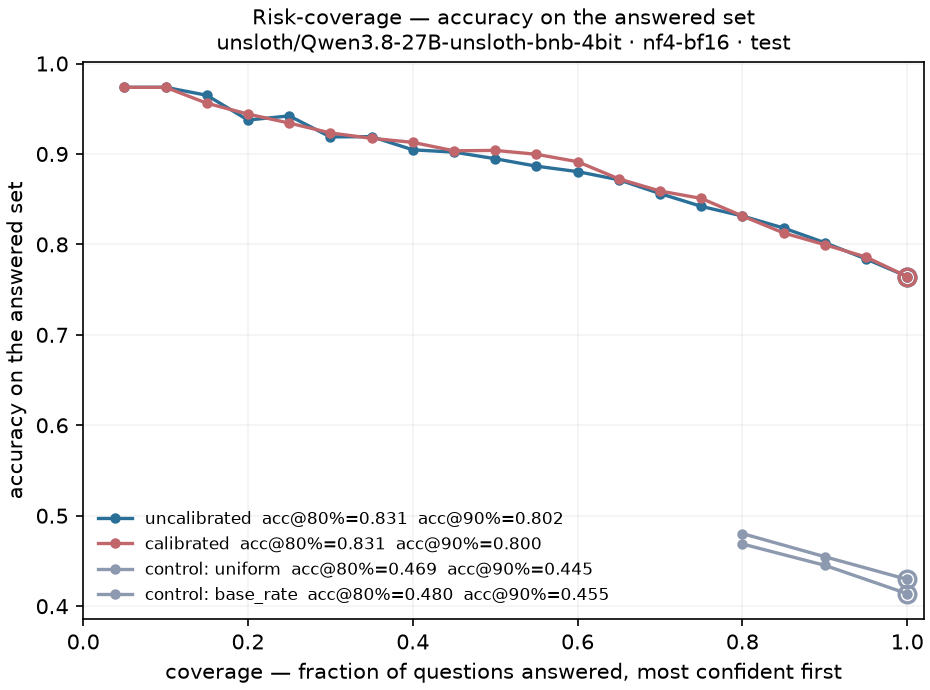
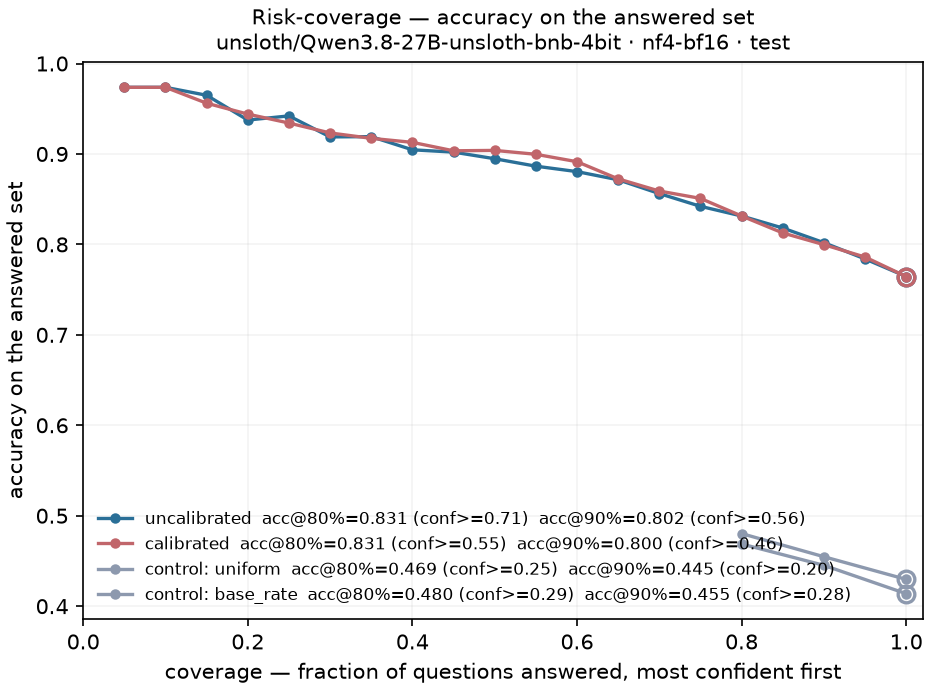
eval: report the confidence threshold beside each coverage, and show one BSS in the summary
acc@80% is what an operator gets; thr@80% is what they set to get it. The curve already carried
the per-point confidence, so the selective block now surfaces it at 80% and 90% and the summary
tables carry both columns. It is not a cosmetic pairing: calibration leaves acc@80% at 0.8314
but moves the cut that produces it from 0.7052 to 0.5497, which is the number that would go
into a deployment.

The skill table shows only the multiclass BSS, so the report never prints two different figures
both called BSS. The top-label variant stays in metrics.json under skill.*.brier_top_label,
with a line saying where it went and why it reads lower.

diff --git a/eval/summary.py b/eval/summary.py
@@ -26,8 +26,14 @@ _COLUMNS = (
     ("mean_confidence", "conf", "{:.3f}"),
 )
 
-#: Selective-accuracy columns, pulled out of the nested `selective_accuracy` mapping.
-_SELECTIVE_COLUMNS = (("0.8", "acc@80%"), ("0.9", "acc@90%"))
+#: Selective columns, pulled out of the nested risk-coverage mappings. Accuracy is what a
+#: coverage buys; the threshold is the confidence cut an operator sets to buy it.
+_SELECTIVE_COLUMNS = (
+    ("selective_accuracy", "0.8", "acc@80%"),
+    ("selective_threshold", "0.8", "thr@80%"),
+    ("selective_accuracy", "0.9", "acc@90%"),
+    ("selective_threshold", "0.9", "thr@90%"),
+)
 
 
 def _stale_format_banner(run_format: str | None) -> list[str]:
@@ -61,15 +67,14 @@ def _row(label: str, summary: Mapping[str, Any]) -> str:
     for key, _title, fmt in _COLUMNS:
         value = summary.get(key)
         cells.append("n/a" if value is None else fmt.format(value))
-    selective = summary.get("selective_accuracy") or {}
-    for key, _title in _SELECTIVE_COLUMNS:
-        value = selective.get(key)
+    for source, key, _title in _SELECTIVE_COLUMNS:
+        value = (summary.get(source) or {}).get(key)
         cells.append("n/a" if value is None else f"{value:.4f}")
     return f"| {label} | " + " | ".join(cells) + " |"
 
 
 def _table(rows: Sequence[tuple[str, Mapping[str, Any]]], first: str = "") -> list[str]:
-    titles = [t for _k, t, _f in _COLUMNS] + [t for _k, t in _SELECTIVE_COLUMNS]
+    titles = [t for _k, t, _f in _COLUMNS] + [t for _s, _k, t in _SELECTIVE_COLUMNS]
     head = f"| {first} | " + " | ".join(titles) + " |"
     rule = "|---" * (len(titles) + 1) + "|"
     return [head, rule, *[_row(label, s) for label, s in rows]]
@@ -94,19 +99,27 @@ def _skill_section(report: Mapping[str, Any]) -> list[str]:
         "that way, so stating the result as skill *against that control* puts the comparison in "
         "the open.",
         "",
-        "| model | control | BSS (multiclass) | BSS (top label) | accuracy gain |",
-        "|---|---|---|---|---|",
+        "| model | control | BSS | accuracy gain |",
+        "|---|---|---|---|",
     ]
+
+    def fmt(value: float | None) -> str:
+        return "n/a" if value is None else f"{value:+.4f}"
+
     for label, block in pairs:
         for control, skill in block.items():
-
-            def fmt(value: float | None) -> str:
-                return "n/a" if value is None else f"{value:+.4f}"
-
             out.append(
                 f"| {label} | {control} | {fmt(skill.get('brier_multiclass'))} | "
-                f"{fmt(skill.get('brier_top_label'))} | {fmt(skill.get('accuracy_gain'))} |"
+                f"{fmt(skill.get('accuracy_gain'))} |"
             )
+    out += [
+        "",
+        "**BSS here is the multiclass Brier skill**, over the full distribution — one number, "
+        "so the report never shows two things both called BSS. The top-label variant is in "
+        "`metrics.json` under `skill.*.brier_top_label` for anyone who wants the confidence-only "
+        "view; it is systematically smaller because the top-label score ignores how the "
+        "remaining mass is spread.",
+    ]
     return out
 
 
@@ -127,13 +140,17 @@ def _risk_coverage_section(report: Mapping[str, Any]) -> list[str]:
         "`1 - c` are abstained on. This is the deployment question — *if the least confident "
         "20% go to a human, how good is what is left?* — and it depends only on the **order** "
         "of the confidences, not on their values, which makes it a second opinion rather than a "
-        "restatement of the reliability diagram. Calibration still moves it, because our "
+        "restatement of the reliability diagram. `thr@80%` is the confidence cut that "
+        "produces 80% coverage — the number an operator configures, where `acc@80%` is what "
+        "they get for it. Calibration still moves it, because our "
         "temperatures are fitted per option-count bucket and therefore re-rank questions across "
         "buckets; a single global temperature would leave these rows identical. "
         "`AURC` is the area under the risk curve; lower is better.",
         "",
-        "| model | " + " | ".join(f"acc@{c:.0%}" for c in (0.2, 0.4, 0.6, 0.8, 1.0)) + " | AURC |",
-        "|---|---|---|---|---|---|---|",
+        "| model | "
+        + " | ".join(f"acc@{c:.0%}" for c in (0.2, 0.4, 0.6, 0.8, 1.0))
+        + " | thr@80% | AURC |",
+        "|---|---|---|---|---|---|---|---|",
     ]
     for label, curve in curves:
         by_coverage = {round(point["coverage"], 2): point["accuracy"] for point in curve["curve"]}
@@ -141,9 +158,13 @@ def _risk_coverage_section(report: Mapping[str, Any]) -> list[str]:
             f"{by_coverage[c]:.4f}" if c in by_coverage else "n/a"
             for c in (0.2, 0.4, 0.6, 0.8, 1.0)
         ]
+        threshold = (curve.get("selective_threshold") or {}).get("0.8")
         aurc = curve.get("aurc")
         out.append(
-            f"| {label} | " + " | ".join(cells) + f" | {'n/a' if aurc is None else f'{aurc:.4f}'} |"
+            f"| {label} | "
+            + " | ".join(cells)
+            + f" | {'n/a' if threshold is None else f'{threshold:.4f}'}"
+            + f" | {'n/a' if aurc is None else f'{aurc:.4f}'} |"
         )
     out += ["", "Drawn in `risk-coverage.png`, with the negative controls on the same axes."]
     return out

diff --git a/eval/metrics.py b/eval/metrics.py
@@ -380,8 +380,11 @@ def risk_coverage(
 
     Returns:
         ``{"curve": [{"coverage", "n_kept", "accuracy", "min_confidence"}, ...],
-        "selective_accuracy": {"0.8": ..., "0.9": ...}, "aurc": ...}`` where ``aurc`` is the
-        area under the *risk* (1 - accuracy) curve over the grid, lower being better.
+        "selective_accuracy": {"0.8": ..., "0.9": ...}, "selective_threshold": {...},
+        "aurc": ...}``. ``selective_threshold`` is the confidence at which to stop answering to
+        reach that coverage — the setting an operator configures, where the accuracy is what
+        they get for it. ``aurc`` is the area under the *risk* (1 - accuracy) curve over the
+        grid, lower being better.
 
     Raises:
         ValueError: If any coverage is outside ``(0, 1]``.
@@ -407,15 +410,24 @@ def risk_coverage(
             }
         )
 
-    selective = {
-        f"{c:g}": float(ranked_correct[: max(1, math.ceil(c * n))].mean())
-        for c in SELECTIVE_COVERAGES
-    }
+    # Accuracy is what a coverage buys; the threshold is what an operator actually configures
+    # to buy it — "answer when confidence >= 0.62" is the deployable form of "answer 80%".
+    selective: dict[str, float] = {}
+    selective_threshold: dict[str, float] = {}
+    for c in SELECTIVE_COVERAGES:
+        keep = max(1, math.ceil(c * n))
+        selective[f"{c:g}"] = float(ranked_correct[:keep].mean())
+        selective_threshold[f"{c:g}"] = float(ranked_confidence[keep - 1])
     # Trapezoid over the grid; only comparable between runs scored on the same grid.
     xs = [point["coverage"] for point in curve]
     risks = [1.0 - point["accuracy"] for point in curve]
     aurc = float(np.trapezoid(risks, xs) / (xs[-1] - xs[0])) if len(xs) > 1 else None
-    return {"curve": curve, "selective_accuracy": selective, "aurc": aurc}
+    return {
+        "curve": curve,
+        "selective_accuracy": selective,
+        "selective_threshold": selective_threshold,
+        "aurc": aurc,
+    }
 
 
 def summarize(
@@ -448,6 +460,7 @@ def summarize(
         "mean_confidence": float(confidence.mean()),
         "mean_options": float(np.mean([r.size for r in rows])),
         "selective_accuracy": coverage["selective_accuracy"],
+        "selective_threshold": coverage["selective_threshold"],
         "aurc": coverage["aurc"],
         "n_bins": len(bins),
         "bins": [asdict(b) | {"gap": b.gap} for b in bins],

diff --git a/tests/test_metrics_skill.py b/tests/test_metrics_skill.py
@@ -169,3 +169,37 @@ def test_aurc_is_lower_for_the_model_that_ranks_its_errors_better() -> None:
         summarize(ranks_well, labels)["accuracy"], summarize(ranks_badly, labels)["accuracy"]
     )
     assert summarize(ranks_well, labels)["aurc"] < summarize(ranks_badly, labels)["aurc"]
+
+
+def test_the_threshold_is_the_confidence_that_produces_that_coverage() -> None:
+    """acc@80% is what an operator gets; thr@80% is what they set to get it."""
+    probabilities = [
+        [c, 1 - c] for c in (0.99, 0.95, 0.90, 0.85, 0.80, 0.75, 0.70, 0.65, 0.60, 0.55)
+    ]
+    labels = [0] * 10
+    curve = risk_coverage(probabilities, labels)
+    # 80% of 10 questions is the 8 most confident; the cut is the 8th confidence down.
+    assert curve["selective_threshold"]["0.8"] == pytest.approx(0.65)
+    assert curve["selective_threshold"]["0.9"] == pytest.approx(0.60)
+
+
+def test_thresholds_fall_as_coverage_rises() -> None:
+    """Answering more questions always means accepting less confident ones."""
+    probabilities = [[0.5 + i / 100, 0.5 - i / 100] for i in range(40)]
+    curve = risk_coverage(probabilities, [0] * 40)
+    assert curve["selective_threshold"]["0.9"] < curve["selective_threshold"]["0.8"]
+
+
+def test_every_selective_accuracy_has_a_matching_threshold() -> None:
+    summary = summarize([[0.9, 0.1], [0.6, 0.4], [0.3, 0.7]] * 5, [0, 1, 1] * 5)
+    assert set(summary["selective_threshold"]) == set(summary["selective_accuracy"])
+
+
+def test_the_threshold_actually_retains_the_promised_coverage() -> None:
+    """The contract: keep everything at or above the threshold and you get that coverage."""
+    probabilities = [[0.5 + i / 200, 0.5 - i / 200] for i in range(100)]
+    labels = [0] * 100
+    curve = risk_coverage(probabilities, labels)
+    threshold = curve["selective_threshold"]["0.8"]
+    kept = [row for row in probabilities if max(row) >= threshold]
+    assert len(kept) == 80

diff --git a/eval/plots.py b/eval/plots.py
@@ -130,7 +130,12 @@ def plot_risk_coverage(
         xs = [point["coverage"] for point in points]
         ys = [point["accuracy"] for point in points]
         selective = curve.get("selective_accuracy", {})
-        annotation = "  ".join(f"acc@{float(k):.0%}={v:.3f}" for k, v in sorted(selective.items()))
+        thresholds = curve.get("selective_threshold", {})
+        annotation = "  ".join(
+            f"acc@{float(k):.0%}={v:.3f}"
+            + (f" (conf>={thresholds[k]:.2f})" if k in thresholds else "")
+            for k, v in sorted(selective.items())
+        )
         ax.plot(xs, ys, "o-", color=colour, lw=1.6, ms=4, label=f"{label}  {annotation}")
         # Full coverage is plain accuracy: the point every selective claim is measured against.
         ax.plot([1.0], [ys[-1]], "o", color=colour, ms=8, mfc="none", mew=1.6)
@@ -255,6 +260,7 @@ def plot_run(run_dir: str | Path) -> list[Path]:
                 ]
                 + [{"coverage": 1.0, "accuracy": control["accuracy"]}],
                 "selective_accuracy": control["selective_accuracy"],
+                "selective_threshold": control.get("selective_threshold", {}),
             }
     if curves:
         written.append(

diff --git a/results/20260917-format02-zeroshot/SUMMARY.md b/results/20260917-format02-zeroshot/SUMMARY.md
@@ -5,8 +5,8 @@
 - **Model**: `unsloth/Qwen3.8-27B-unsloth-bnb-4bit` · quantization `nf4-bf16` · engine `hf`
 - **Data**: `pngwn/system-one-decisions` (CC-BY-NC-4.0), report split `test`, calibration fitted on `val`
 - **Prompt format**: `0.2` · template `qwen3.8-chatml-nothink`
-- **Commit**: `7ef9e68bcb22` **(tree dirty at run time)**
-- **Created**: 2026-09-17T16:10:57+00:00 · Windows 10 · Python 3.11.16
+- **Commit**: `9ce842a73147` **(tree dirty at run time)**
+- **Created**: 2026-09-17T18:53:29+00:00 · Windows 10 · Python 3.11.16
 
 ## Coverage
 
@@ -17,12 +17,12 @@
 
 ## Headline
 
-| row | n | acc | ECE | MCE | Brier(top) | Brier(mc) | NLL | AUROC | conf | acc@80% | acc@90% |
-|---|---|---|---|---|---|---|---|---|---|---|---|
-| model, uncalibrated | 1520 | 0.7645 | 0.1026 | 0.185 | 0.1656 | 0.3534 | 0.7468 | 0.7519 | 0.867 | 0.8314 | 0.8019 |
-| model, calibrated | 1520 | 0.7645 | 0.0449 | 0.103 | 0.1546 | 0.3367 | 0.5948 | 0.7570 | 0.736 | 0.8314 | 0.7997 |
-| control: uniform | 1520 | 0.4138 | 0.0767 | 0.134 | 0.2126 | 0.6406 | 1.0986 | 0.7058 | 0.359 | 0.4688 | 0.4452 |
-| control: base_rate | 1520 | 0.4296 | 0.0342 | 0.111 | 0.2149 | 0.6236 | 1.0700 | 0.6987 | 0.454 | 0.4803 | 0.4547 |
+| row | n | acc | ECE | MCE | Brier(top) | Brier(mc) | NLL | AUROC | conf | acc@80% | thr@80% | acc@90% | thr@90% |
+|---|---|---|---|---|---|---|---|---|---|---|---|---|---|
+| model, uncalibrated | 1520 | 0.7645 | 0.1026 | 0.185 | 0.1656 | 0.3534 | 0.7468 | 0.7519 | 0.867 | 0.8314 | 0.7052 | 0.8019 | 0.5622 |
+| model, calibrated | 1520 | 0.7645 | 0.0449 | 0.103 | 0.1546 | 0.3367 | 0.5948 | 0.7570 | 0.736 | 0.8314 | 0.5497 | 0.7997 | 0.4592 |
+| control: uniform | 1520 | 0.4138 | 0.0767 | 0.134 | 0.2126 | 0.6406 | 1.0986 | 0.7058 | 0.359 | 0.4688 | 0.2500 | 0.4452 | 0.2000 |
+| control: base_rate | 1520 | 0.4296 | 0.0342 | 0.111 | 0.2149 | 0.6236 | 1.0700 | 0.6987 | 0.454 | 0.4803 | 0.2922 | 0.4547 | 0.2774 |
 
 Temperature scaling cannot change which option wins, so accuracy is identical in the first two rows by construction. Read the controls before the model: a predictor that ignores the state can post a competitive ECE, which is why ECE never appears here without accuracy, Brier and AUROC beside it — and why the section below reports skill against those controls rather than ECE alone.
 
@@ -30,21 +30,23 @@ Temperature scaling cannot change which option wins, so accuracy is identical in
 
 `BSS = 1 - Brier / Brier_control`. 1.0 is perfect, 0.0 is no better than the control, negative is worse. **This is the headline calibration number**, and ECE sits beside it rather than above it, because ECE can be won by a predictor that never commits: the base-rate control does exactly that on this set. A proper scoring rule cannot be won that way, so stating the result as skill *against that control* puts the comparison in the open.
 
-| model | control | BSS (multiclass) | BSS (top label) | accuracy gain |
-|---|---|---|---|---|
-| uncalibrated | uniform | +0.4484 | +0.2210 | +0.3507 |
-| uncalibrated | base_rate | +0.4334 | +0.2296 | +0.3349 |
-| calibrated | uniform | +0.4745 | +0.2725 | +0.3507 |
-| calibrated | base_rate | +0.4602 | +0.2806 | +0.3349 |
+| model | control | BSS | accuracy gain |
+|---|---|---|---|
+| uncalibrated | uniform | +0.4484 | +0.3507 |
+| uncalibrated | base_rate | +0.4334 | +0.3349 |
+| calibrated | uniform | +0.4745 | +0.3507 |
+| calibrated | base_rate | +0.4602 | +0.3349 |
+
+**BSS here is the multiclass Brier skill**, over the full distribution — one number, so the report never shows two things both called BSS. The top-label variant is in `metrics.json` under `skill.*.brier_top_label` for anyone who wants the confidence-only view; it is systematically smaller because the top-label score ignores how the remaining mass is spread.
 
 ## Risk-coverage
 
-Questions are answered most-confident-first; at coverage *c* the least confident `1 - c` are abstained on. This is the deployment question — *if the least confident 20% go to a human, how good is what is left?* — and unlike ECE it depends only on the **order** of the confidences, so temperature scaling cannot move it. That makes it a genuine second opinion rather than a restatement of the reliability diagram. `AURC` is the area under the risk curve; lower is better.
+Questions are answered most-confident-first; at coverage *c* the least confident `1 - c` are abstained on. This is the deployment question — *if the least confident 20% go to a human, how good is what is left?* — and it depends only on the **order** of the confidences, not on their values, which makes it a second opinion rather than a restatement of the reliability diagram. `thr@80%` is the confidence cut that produces 80% coverage — the number an operator configures, where `acc@80%` is what they get for it. Calibration still moves it, because our temperatures are fitted per option-count bucket and therefore re-rank questions across buckets; a single global temperature would leave these rows identical. `AURC` is the area under the risk curve; lower is better.
 
-| model | acc@20% | acc@40% | acc@60% | acc@80% | acc@100% | AURC |
-|---|---|---|---|---|---|---|
-| uncalibrated | 0.9375 | 0.9046 | 0.8805 | 0.8314 | 0.7645 | 0.1159 |
-| calibrated | 0.9441 | 0.9128 | 0.8914 | 0.8314 | 0.7645 | 0.1136 |
+| model | acc@20% | acc@40% | acc@60% | acc@80% | acc@100% | thr@80% | AURC |
+|---|---|---|---|---|---|---|---|
+| uncalibrated | 0.9375 | 0.9046 | 0.8805 | 0.8314 | 0.7645 | 0.7052 | 0.1159 |
+| calibrated | 0.9441 | 0.9128 | 0.8914 | 0.8314 | 0.7645 | 0.5497 | 0.1136 |
 
 Drawn in `risk-coverage.png`, with the negative controls on the same axes.
 
@@ -57,42 +59,42 @@ Drawn in `risk-coverage.png`, with the negative controls on the same axes.
 
 ## By option-count bucket
 
-| bucket | n | acc | ECE | MCE | Brier(top) | Brier(mc) | NLL | AUROC | conf | acc@80% | acc@90% |
-|---|---|---|---|---|---|---|---|---|---|---|---|
-| 2 | 721 | 0.7920 | 0.0874 | 0.145 | 0.1545 | 0.3090 | 0.5745 | 0.7034 | 0.875 | 0.8475 | 0.8228 |
-| 2 (calibrated) | 721 | 0.7920 | 0.0755 | 0.145 | 0.1533 | 0.3067 | 0.4833 | 0.7039 | 0.743 | 0.8475 | 0.8228 |
-| 3-5 | 799 | 0.7397 | 0.1202 | 0.334 | 0.1756 | 0.3934 | 0.9023 | 0.7922 | 0.860 | 0.8109 | 0.7778 |
-| 3-5 (calibrated) | 799 | 0.7397 | 0.0513 | 0.140 | 0.1558 | 0.3637 | 0.6954 | 0.7912 | 0.730 | 0.8094 | 0.7819 |
+| bucket | n | acc | ECE | MCE | Brier(top) | Brier(mc) | NLL | AUROC | conf | acc@80% | thr@80% | acc@90% | thr@90% |
+|---|---|---|---|---|---|---|---|---|---|---|---|---|---|
+| 2 | 721 | 0.7920 | 0.0874 | 0.145 | 0.1545 | 0.3090 | 0.5745 | 0.7034 | 0.875 | 0.8475 | 0.7549 | 0.8228 | 0.6225 |
+| 2 (calibrated) | 721 | 0.7920 | 0.0755 | 0.145 | 0.1533 | 0.3067 | 0.4833 | 0.7039 | 0.743 | 0.8475 | 0.6104 | 0.8228 | 0.5497 |
+| 3-5 | 799 | 0.7397 | 0.1202 | 0.334 | 0.1756 | 0.3934 | 0.9023 | 0.7922 | 0.860 | 0.8109 | 0.6542 | 0.7778 | 0.5203 |
+| 3-5 (calibrated) | 799 | 0.7397 | 0.0513 | 0.140 | 0.1558 | 0.3637 | 0.6954 | 0.7912 | 0.730 | 0.8094 | 0.4684 | 0.7819 | 0.3780 |
 
 ## By primitive
 
-| primitive | n | acc | ECE | MCE | Brier(top) | Brier(mc) | NLL | AUROC | conf | acc@80% | acc@90% |
-|---|---|---|---|---|---|---|---|---|---|---|---|
-| choice | 519 | 0.8247 | 0.0876 | 0.240 | 0.1243 | 0.2730 | 0.6992 | 0.8219 | 0.912 | 0.9038 | 0.8675 |
-| choice (calibrated) | 519 | 0.8247 | 0.0399 | 0.139 | 0.1154 | 0.2602 | 0.5196 | 0.8202 | 0.805 | 0.8990 | 0.8654 |
-| noul | 721 | 0.7920 | 0.0874 | 0.145 | 0.1545 | 0.3090 | 0.5745 | 0.7034 | 0.875 | 0.8475 | 0.8228 |
-| noul (calibrated) | 721 | 0.7920 | 0.0755 | 0.145 | 0.1533 | 0.3067 | 0.4833 | 0.7039 | 0.743 | 0.8475 | 0.8228 |
-| score | 280 | 0.5821 | 0.1932 | 0.520 | 0.2706 | 0.6165 | 1.2785 | 0.6611 | 0.763 | 0.6295 | 0.6032 |
-| score (calibrated) | 280 | 0.5821 | 0.1139 | 0.400 | 0.2307 | 0.5556 | 1.0214 | 0.6598 | 0.591 | 0.6384 | 0.6032 |
+| primitive | n | acc | ECE | MCE | Brier(top) | Brier(mc) | NLL | AUROC | conf | acc@80% | thr@80% | acc@90% | thr@90% |
+|---|---|---|---|---|---|---|---|---|---|---|---|---|---|
+| choice | 519 | 0.8247 | 0.0876 | 0.240 | 0.1243 | 0.2730 | 0.6992 | 0.8219 | 0.912 | 0.9038 | 0.8414 | 0.8675 | 0.6397 |
+| choice (calibrated) | 519 | 0.8247 | 0.0399 | 0.139 | 0.1154 | 0.2602 | 0.5196 | 0.8202 | 0.805 | 0.8990 | 0.5836 | 0.8654 | 0.4623 |
+| noul | 721 | 0.7920 | 0.0874 | 0.145 | 0.1545 | 0.3090 | 0.5745 | 0.7034 | 0.875 | 0.8475 | 0.7549 | 0.8228 | 0.6225 |
+| noul (calibrated) | 721 | 0.7920 | 0.0755 | 0.145 | 0.1533 | 0.3067 | 0.4833 | 0.7039 | 0.743 | 0.8475 | 0.6104 | 0.8228 | 0.5497 |
+| score | 280 | 0.5821 | 0.1932 | 0.520 | 0.2706 | 0.6165 | 1.2785 | 0.6611 | 0.763 | 0.6295 | 0.5360 | 0.6032 | 0.4882 |
+| score (calibrated) | 280 | 0.5821 | 0.1139 | 0.400 | 0.2307 | 0.5556 | 1.0214 | 0.6598 | 0.591 | 0.6384 | 0.3772 | 0.6032 | 0.3380 |
 
 ## By family
 
-| family | n | acc | ECE | MCE | Brier(top) | Brier(mc) | NLL | AUROC | conf | acc@80% | acc@90% |
-|---|---|---|---|---|---|---|---|---|---|---|---|
-| ag_news | 200 | 0.8700 | 0.0949 | 0.354 | 0.1048 | 0.2128 | 0.7362 | 0.8406 | 0.965 | 0.9313 | 0.9111 |
-| ag_news (calibrated) | 200 | 0.8700 | 0.0679 | 0.337 | 0.0931 | 0.1967 | 0.4163 | 0.8400 | 0.912 | 0.9250 | 0.9111 |
-| go_emotions | 641 | 0.7769 | 0.0940 | 0.235 | 0.1629 | 0.3258 | 0.5637 | 0.7008 | 0.860 | 0.8382 | 0.8042 |
-| go_emotions (calibrated) | 641 | 0.7769 | 0.0861 | 0.195 | 0.1617 | 0.3234 | 0.5009 | 0.7014 | 0.720 | 0.8382 | 0.8059 |
-| mmlu | 249 | 0.8072 | 0.0742 | 0.212 | 0.1209 | 0.2862 | 0.6583 | 0.8572 | 0.881 | 0.8950 | 0.8533 |
-| mmlu (calibrated) | 249 | 0.8072 | 0.0629 | 0.255 | 0.1177 | 0.2817 | 0.5659 | 0.8573 | 0.748 | 0.8950 | 0.8533 |
-| tickets_language | 80 | 0.9125 | 0.0902 | 0.800 | 0.0874 | 0.1748 | 0.6610 | 0.2661 | 0.997 | 0.8906 | 0.9028 |
-| tickets_language (calibrated) | 80 | 0.9125 | 0.1362 | 0.756 | 0.0863 | 0.1725 | 0.3424 | 0.2661 | 0.924 | 0.8906 | 0.9028 |
-| tickets_priority | 80 | 0.3250 | 0.2856 | 0.920 | 0.3355 | 0.8902 | 1.8984 | 0.4815 | 0.580 | 0.3125 | 0.3333 |
-| tickets_priority (calibrated) | 80 | 0.3250 | 0.2729 | 0.664 | 0.2689 | 0.7970 | 1.5214 | 0.4480 | 0.410 | 0.3125 | 0.3194 |
-| tickets_type | 70 | 0.7571 | 0.1736 | 0.640 | 0.1923 | 0.3977 | 0.7393 | 0.6903 | 0.873 | 0.7679 | 0.7778 |
-| tickets_type (calibrated) | 70 | 0.7571 | 0.1418 | 0.521 | 0.1709 | 0.3647 | 0.6497 | 0.6815 | 0.700 | 0.7500 | 0.7619 |
-| yelp_score | 200 | 0.6850 | 0.1897 | 0.347 | 0.2447 | 0.5071 | 1.0306 | 0.6393 | 0.836 | 0.7063 | 0.6889 |
-| yelp_score (calibrated) | 200 | 0.6850 | 0.1264 | 0.433 | 0.2153 | 0.4590 | 0.8214 | 0.6314 | 0.664 | 0.7125 | 0.6778 |
+| family | n | acc | ECE | MCE | Brier(top) | Brier(mc) | NLL | AUROC | conf | acc@80% | thr@80% | acc@90% | thr@90% |
+|---|---|---|---|---|---|---|---|---|---|---|---|---|---|
+| ag_news | 200 | 0.8700 | 0.0949 | 0.354 | 0.1048 | 0.2128 | 0.7362 | 0.8406 | 0.965 | 0.9313 | 0.9915 | 0.9111 | 0.9045 |
+| ag_news (calibrated) | 200 | 0.8700 | 0.0679 | 0.337 | 0.0931 | 0.1967 | 0.4163 | 0.8400 | 0.912 | 0.9250 | 0.8435 | 0.9111 | 0.6681 |
+| go_emotions | 641 | 0.7769 | 0.0940 | 0.235 | 0.1629 | 0.3258 | 0.5637 | 0.7008 | 0.860 | 0.8382 | 0.7311 | 0.8042 | 0.5927 |
+| go_emotions (calibrated) | 641 | 0.7769 | 0.0861 | 0.195 | 0.1617 | 0.3234 | 0.5009 | 0.7014 | 0.720 | 0.8382 | 0.5984 | 0.8059 | 0.5373 |
+| mmlu | 249 | 0.8072 | 0.0742 | 0.212 | 0.1209 | 0.2862 | 0.6583 | 0.8572 | 0.881 | 0.8950 | 0.7235 | 0.8533 | 0.5191 |
+| mmlu (calibrated) | 249 | 0.8072 | 0.0629 | 0.255 | 0.1177 | 0.2817 | 0.5659 | 0.8573 | 0.748 | 0.8950 | 0.5032 | 0.8533 | 0.4042 |
+| tickets_language | 80 | 0.9125 | 0.0902 | 0.800 | 0.0874 | 0.1748 | 0.6610 | 0.2661 | 0.997 | 0.8906 | 0.9941 | 0.9028 | 0.9924 |
+| tickets_language (calibrated) | 80 | 0.9125 | 0.1362 | 0.756 | 0.0863 | 0.1725 | 0.3424 | 0.2661 | 0.924 | 0.8906 | 0.8854 | 0.9028 | 0.8749 |
+| tickets_priority | 80 | 0.3250 | 0.2856 | 0.920 | 0.3355 | 0.8902 | 1.8984 | 0.4815 | 0.580 | 0.3125 | 0.4513 | 0.3333 | 0.3984 |
+| tickets_priority (calibrated) | 80 | 0.3250 | 0.2729 | 0.664 | 0.2689 | 0.7970 | 1.5214 | 0.4480 | 0.410 | 0.3125 | 0.3257 | 0.3194 | 0.3015 |
+| tickets_type | 70 | 0.7571 | 0.1736 | 0.640 | 0.1923 | 0.3977 | 0.7393 | 0.6903 | 0.873 | 0.7679 | 0.7924 | 0.7778 | 0.6383 |
+| tickets_type (calibrated) | 70 | 0.7571 | 0.1418 | 0.521 | 0.1709 | 0.3647 | 0.6497 | 0.6815 | 0.700 | 0.7500 | 0.5438 | 0.7619 | 0.4766 |
+| yelp_score | 200 | 0.6850 | 0.1897 | 0.347 | 0.2447 | 0.5071 | 1.0306 | 0.6393 | 0.836 | 0.7063 | 0.6674 | 0.6889 | 0.5534 |
+| yelp_score (calibrated) | 200 | 0.6850 | 0.1264 | 0.433 | 0.2153 | 0.4590 | 0.8214 | 0.6314 | 0.664 | 0.7125 | 0.4684 | 0.6778 | 0.4218 |
 
 ## Timing
 
